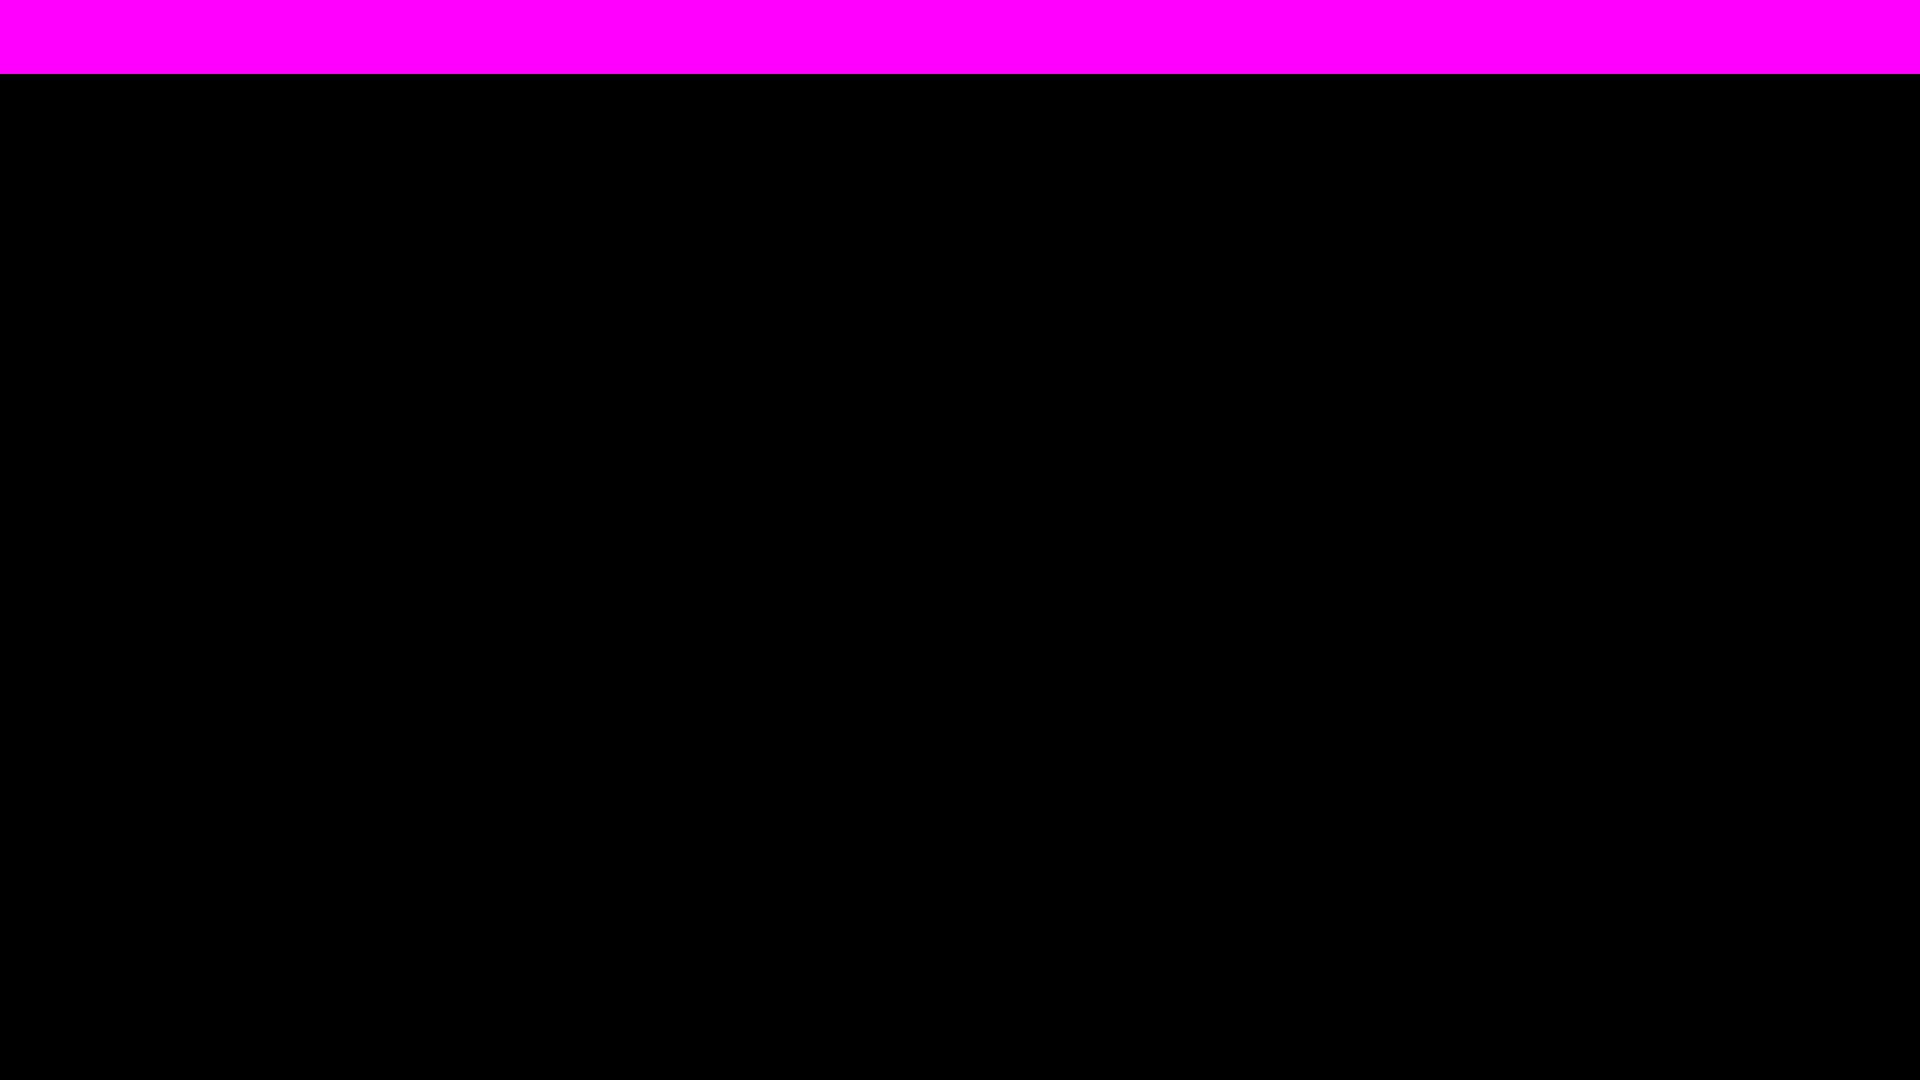
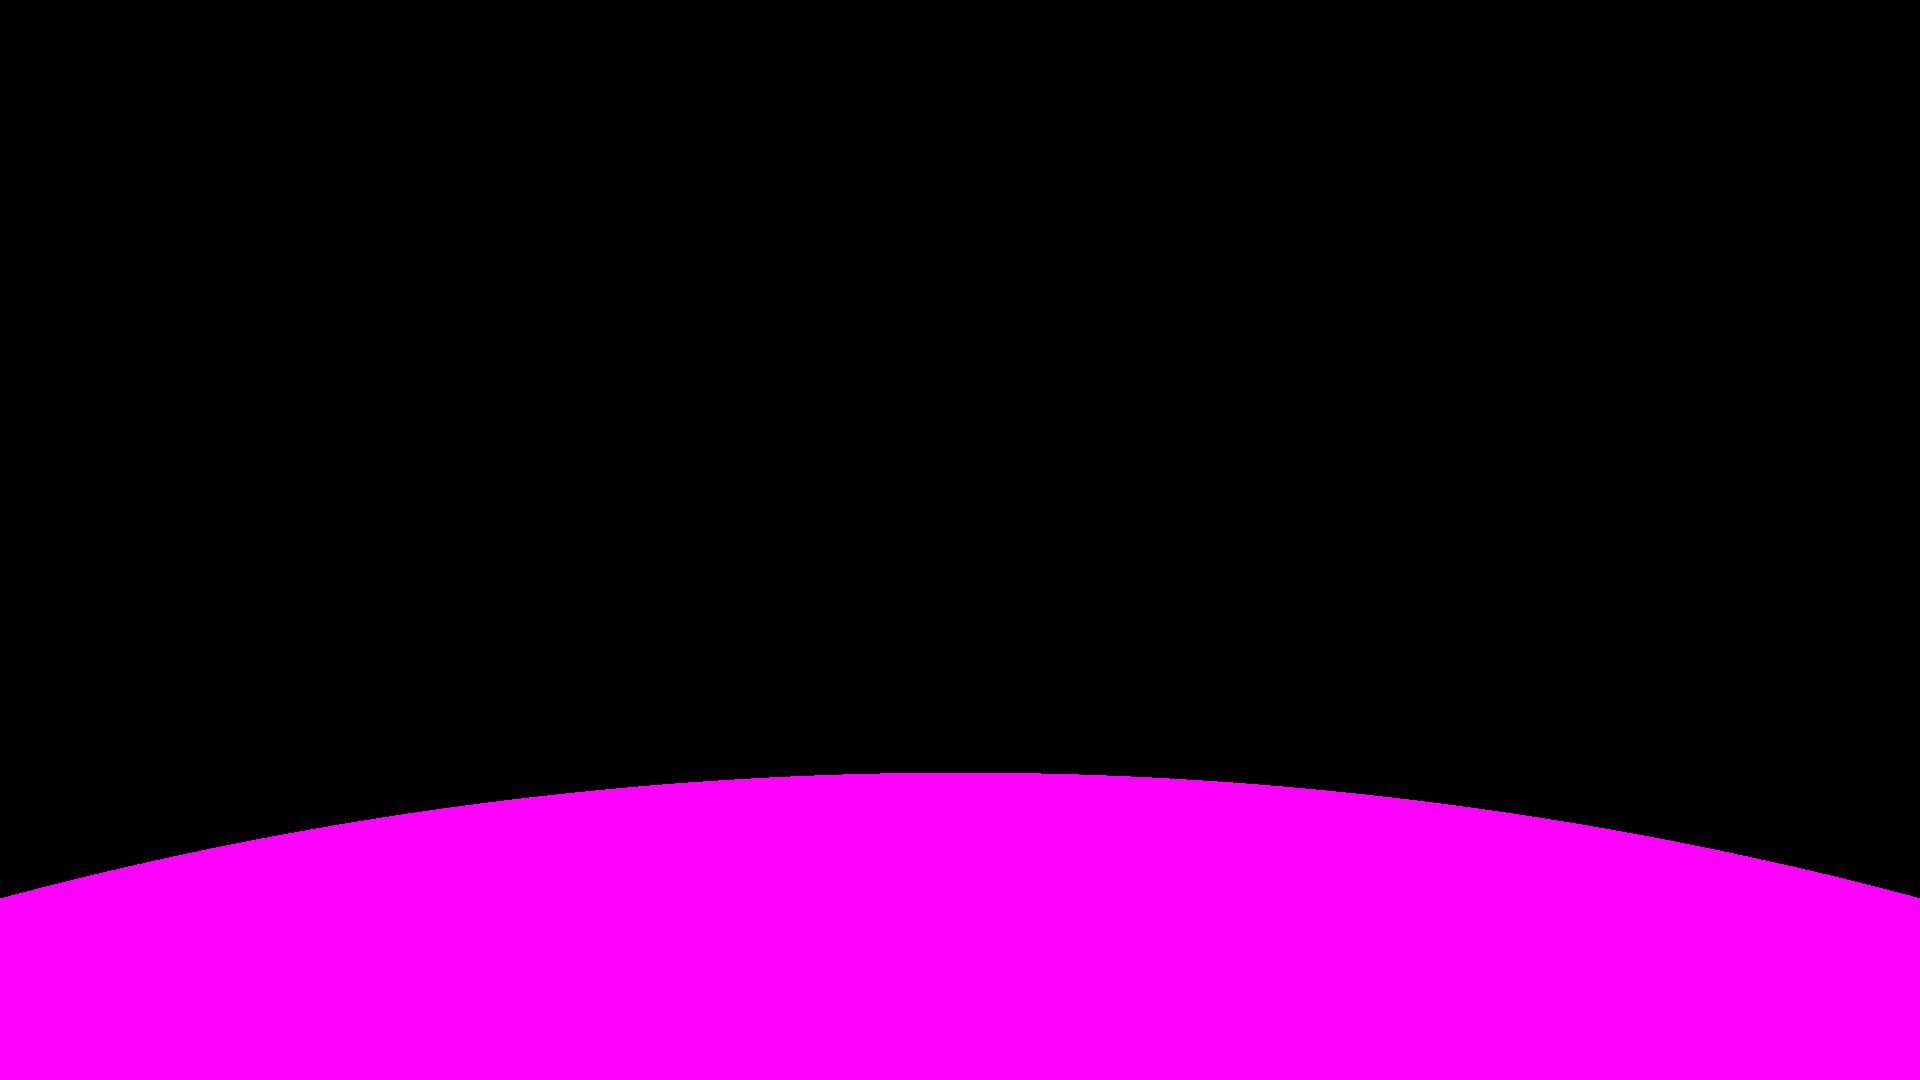
RayTrace BLACK again. Trying, again and again

diff --git a/src/main/java/info/emptycanvas/library/raytracer/CTargetCamera.java b/src/main/java/info/emptycanvas/library/raytracer/CTargetCamera.java
@@ -7,9 +7,8 @@ public class CTargetCamera extends CCamera {
     private Point3D mVecDir = null;
     private Point3D mRightVec = null;
     private Point3D mViewPlaneUpLeft = null;
-
     public CTargetCamera(Point3D camPos, Point3D lookAtPoint, Point3D upVector) {
-        super(camPos, upVector, TARGETCAMERA);
+        super(camPos, lookAtPoint, lookAtPoint.prodVect(upVector).norme1(), upVector, TARGETCAMERA);
         mUpVec = upVector;
         mLookAtPoint = lookAtPoint;
 
@@ -25,6 +24,6 @@ public class CTargetCamera extends CCamera {
 
         // Maintenant nous avons toutes les informations pour d�t�rminer la position
         // en haut � gauche du viewplane.
-        mViewPlaneUpLeft = camPos.plus(((mVecDir.mult(mViewplaneDist)).plus((mUpVec.mult((mViewplaneHeight / 2.0)))).moins((mRightVec.mult(((mViewplaneWidth / 2.0f)))))));
+        mViewPlaneUpLeft = camPos.plus(mVecDir.mult(mViewplaneDist)).plus(mUpVec.mult(-mViewplaneHeight / 2.0)).plus(mRightVec.mult(mViewplaneWidth / 2.0f));
     }
 }

diff --git a/src/main/java/info/emptycanvas/library/raytracer/CCamera.java b/src/main/java/info/emptycanvas/library/raytracer/CCamera.java
@@ -7,15 +7,19 @@ public class CCamera extends CNode {
     protected float mViewplaneWidth, mViewplaneHeight;                            // Largeur/Hauteur du viewplane.
     protected Point3D mCamPos = new Point3D(), mVecDir = new Point3D(), mUpVec = new Point3D(), mRightVec = new Point3D(), mViewPlaneUpLeft = new Point3D();
 
-    public CCamera(Point3D vCamPos, Point3D vUpVector, int type)
+    public CCamera(Point3D vCamPos, Point3D direction, Point3D vRightVec, Point3D vUpVector, int type)
 
     {
         super(type, "CAMERA");
         mCamPos = vCamPos;
+        mVecDir = direction;
         mUpVec = vUpVector;
+        mRightVec = vRightVec;
         mViewplaneDist = 1.0f;
         mViewplaneHeight = 0.35f;
         mViewplaneWidth = 0.5f;
+        mViewPlaneUpLeft = mCamPos.plus(direction.mult(mViewplaneDist))
+                .plus(mRightVec.mult(-mViewplaneWidth/2)).plus(mUpVec.mult(-mViewplaneHeight/2));
 
     }
 

diff --git a/src/main/java/info/emptycanvas/library/raytracer/CRepresentable.java b/src/main/java/info/emptycanvas/library/raytracer/CRepresentable.java
@@ -15,6 +15,6 @@ public class CRepresentable extends CObject{
 
     public boolean intersectsNode(CRay ray, CIntersectInfo intersectInfo) {
 
-        return false;
+        return representable.intersects(ray, intersectInfo)!=null; //TODO CHCECK
     }
 }
